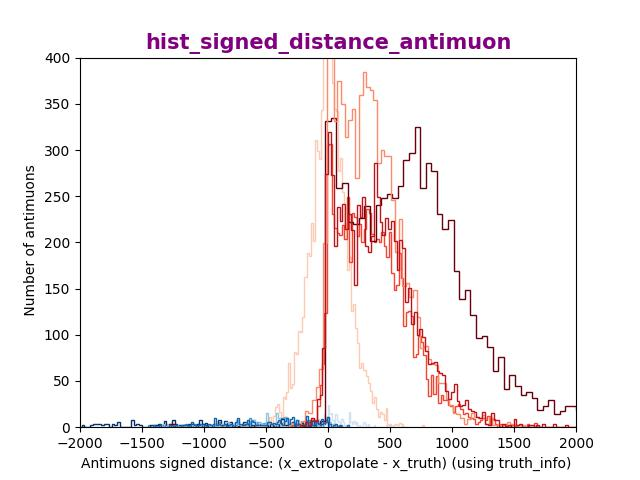
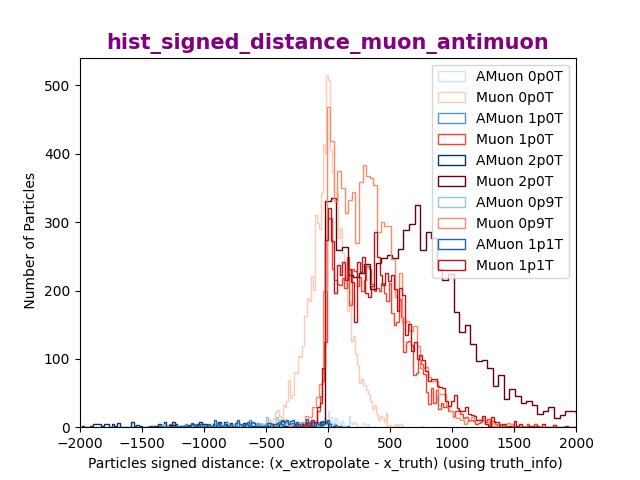
last

diff --git a/new/make_for_both.py b/new/make_for_both.py
@@ -9,7 +9,7 @@ from mat_helper import Hists_Graph
 with open("python_object.sushil_dai", 'rb') as file:
     loaded_data = pickle.load(file)
 
-amuon_graph = Hists_Graph("hist_signed_distance_antimuon", "Antimuons signed distance: (x_extropolate - x_truth) (using truth_info) ;True signed distance(mm); Number of antimuons")
+amuon_graph = Hists_Graph("hist_signed_distance_muon_antimuon", "Particles signed distance: (x_extropolate - x_truth) (using truth_info) ;True signed distance(mm); Number of Particles")
 red_colors = matplotlib.cm.Reds(np.linspace(0.2, 1, 5))
 blue_colors = matplotlib.cm.Blues(np.linspace(0.2, 1, 5))
 
@@ -23,5 +23,5 @@ for count,i in enumerate(loaded_data['AMUONS']):
     amuon_graph.add(np.array(loaded_data['MUONS'][i]),color=red_colors[ind])
     amuon_names.append("AMuon " + filtered_name)
     amuon_names.append("Muon " + filtered_name)
-# amuon_graph.finish(amuon_names)
+amuon_graph.finish(amuon_names)
 amuon_graph.save("Amuons and Muons.jpg")

diff --git a/new/mat_helper.py b/new/mat_helper.py
@@ -12,7 +12,7 @@ class Hists_Graph():
         # Create a histogram with 200 bins
         plt.hist(x,histtype="step",bins=100,color=color)   
         plt.xlim(-2000, 2000)
-        plt.ylim(0, 400)
+        # plt.ylim(0, 400)
 
     def finish(self,f):
         
